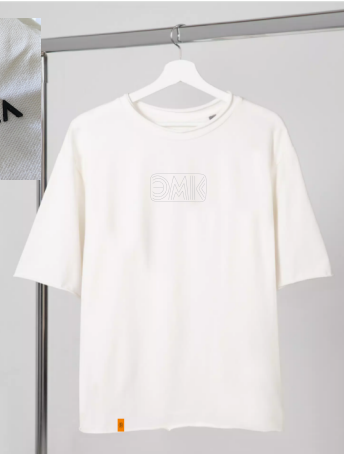
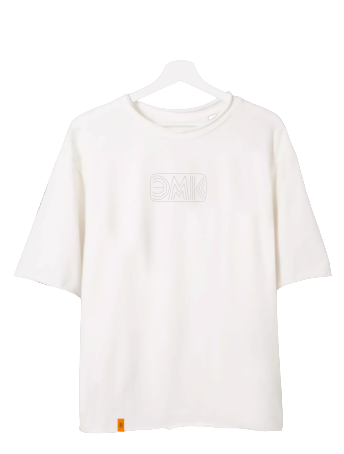
testCommit

diff --git a/front/src/views/admin/AdminElementInner.vue b/front/src/views/admin/AdminElementInner.vue
@@ -1,69 +1,67 @@
 <template>
-  <div class="admin-element-inner">
-    <div class="admin-element-inner__wrapper mt20"
-         :class="{ 'admin-element-inner__wrapper--preview-full-width': previewFullWidth || isMobileScreen }">
-      <div v-if="newElementSkeleton.length"
-           class="admin-element-inner__editor"
-           :class="[
-            { 'admin-element-inner__editor--preview-full-width': previewFullWidth || isMobileScreen },
-            { 'admin-element-inner__editor--no-preview': activeType == 'noPreview' }
-          ]">
-        <div v-for="(item, index) in newElementSkeleton"
-             class="admin-element-inner__field"
-             :key="index">
+<div class="admin-element-inner">
+  <div class="admin-element-inner__wrapper mt20"
+       :class="{ 'admin-element-inner__wrapper--preview-full-width': previewFullWidth || isMobileScreen }">
+    <div v-if="newElementSkeleton.length"
+         :class="['admin-element-inner__editor',
+          { 'admin-element-inner__editor--preview-full-width': previewFullWidth || isMobileScreen },
+          { 'admin-element-inner__editor--no-preview': activeType == 'noPreview' }
+        ]">
+      <div v-for="(item, index) in newElementSkeleton"
+           class="admin-element-inner__field"
+           :key="index">
 
-          <Component :is="inputComponentChecker(item)"
-                     :item="item"
-                     @pick="(value: string) => handleEmitValueChange(item, value)" />
+        <Component :is="inputComponentChecker(item)"
+                   :item="item"
+                   @pick="(value: string) => handleEmitValueChange(item, value)" />
 
-          <AdminEditReportage v-if="item.field == 'reports'"
-                              :item="(item.value as IReportage[])"
-                              @pick="handleReportChange" />
-
-        </div>
-
-        <div class="admin-element-inner__field mt10">
-          <AdminEditInput v-if="newFileData.videos_embed"
-                          :item="{ name: 'Видео с источников', field: 'videos_embed', value: newFileData?.videos_embed[0]?.original_name ?? undefined }"
-                          @pick="(value: string) => handleEmitValueChange({ name: 'Видео с источников', field: 'videos_embed' }, value)" />
-        </div>
-        <AdminUploadingSection class="mt10"
-                               :newFileData="newFileData"
-                               :newData="newData"
-                               @reloadData="reloadElementData(true)"
-                               @handleUpload="handleUpload" />
+        <AdminEditReportage v-if="item.field == 'reports'"
+                            :item="(item.value as IReportage[])"
+                            @pick="handleReportChange" />
       </div>
 
-      <div v-else
-           class="admin-element-inner__editor">
-        <Loader class="admin-element-inner__editor__loader loader" />
+      <div class="admin-element-inner__field mt10">
+        <AdminEditInput v-if="newFileData.videos_embed"
+                        :item="{ name: 'Видео с источников', field: 'videos_embed', value: newFileData?.videos_embed[0]?.original_name ?? undefined }"
+                        @pick="(value: string) => handleEmitValueChange({ name: 'Видео с источников', field: 'videos_embed' }, value)" />
       </div>
-
-      <AdminPostPreview :previewFullWidth="previewFullWidth"
-                        :isMobileScreen="isMobileScreen"
-                        :newFileData="newFileData"
-                        :newData="newData"
-                        :activeType="activeType"
-                        :sectionId="id"
-                        :newId="String(newId)"
-                        :currentItem="currentItem"
-                        @noPreview="previewFullWidth = true"
-                        @changePreviewWidth="previewFullWidth = !previewFullWidth" />
-
+      <AdminUploadingSection class="mt10"
+                             :newFileData="newFileData"
+                             :newData="newData"
+                             @reloadData="reloadElementData(true)"
+                             @handleUpload="handleUpload" />
     </div>
 
-    <div class="admin-element-inner__actions">
-      <button @click="applyNewData"
-              :disabled="buttonIsDisabled"
-              class="admin-element-inner__action-button admin-element-inner__action-button--save">
-        <span class="admin-element-inner__action-text">Сохранить</span>
-      </button>
-      <RouterLink :to="{ name: 'adminBlockInner', params: { id: id } }"
-                  class="admin-element-inner__action-button admin-element-inner__action-button--cancel">
-        <span class="admin-element-inner__action-text">Назад</span>
-      </RouterLink>
+    <div v-else
+         class="admin-element-inner__editor">
+      <Loader class="admin-element-inner__editor__loader loader" />
     </div>
+
+    <AdminPostPreview :previewFullWidth="previewFullWidth"
+                      :isMobileScreen="isMobileScreen"
+                      :newFileData="newFileData"
+                      :newData="newData"
+                      :activeType="activeType"
+                      :sectionId="id"
+                      :newId="String(newId)"
+                      :currentItem="currentItem"
+                      @noPreview="previewFullWidth = true"
+                      @changePreviewWidth="previewFullWidth = !previewFullWidth" />
+
   </div>
+
+  <div class="admin-element-inner__actions">
+    <button @click="applyNewData"
+            :disabled="buttonIsDisabled"
+            class="admin-element-inner__action-button admin-element-inner__action-button--save">
+      <span class="admin-element-inner__action-text">Сохранить</span>
+    </button>
+    <RouterLink :to="{ name: 'adminBlockInner', params: { id: id } }"
+                class="admin-element-inner__action-button admin-element-inner__action-button--cancel">
+      <span class="admin-element-inner__action-text">Назад</span>
+    </RouterLink>
+  </div>
+</div>
 </template>
 
 <script lang="ts">

diff --git a/front/src/views/admin/visibilityAreaEditor/VisibilityAreaEditor.vue b/front/src/views/admin/visibilityAreaEditor/VisibilityAreaEditor.vue
@@ -1,58 +1,58 @@
 <template>
-    <div class="visibility-editor__title page__title mt20">Редактор областей видимости</div>
-    <div class="visibility-editor__wrapper">
-        <AdminSidebar :needDefaultNav="false">
-            <VisibilityAreaSlotLeftSidebar :visibilityAreas="allAreas"
-                                           :activeId="activeArea"
-                                           @addNewArea="modalIsOpen = true"
-                                           @deleteArea="deleteArea"
-                                           @areaClicked="(i: number) => changeActiveArea(i)" />
-        </AdminSidebar>
+<div class="visibility-editor__title page__title mt20">Редактор областей видимости</div>
+<div class="visibility-editor__wrapper">
+    <AdminSidebar :needDefaultNav="false">
+        <VisibilityAreaSlotLeftSidebar :visibilityAreas="allAreas"
+                                       :activeId="activeArea"
+                                       @addNewArea="modalIsOpen = true"
+                                       @deleteArea="deleteArea"
+                                       @areaClicked="(i: number) => changeActiveArea(i)" />
+    </AdminSidebar>
 
-        <SlotModal v-if="modalIsOpen"
-                   @close="modalIsOpen = false">
-            <VisibilityAreaSlotModal @cancelArea="modalIsOpen = false"
-                                     @acceptArea="createNewArea" />
-        </SlotModal>
+    <SlotModal v-if="modalIsOpen"
+               @close="modalIsOpen = false">
+        <VisibilityAreaSlotModal @cancelArea="modalIsOpen = false"
+                                 @acceptArea="createNewArea" />
+    </SlotModal>
 
-        <div class="visibility-editor__area-users__wrapper">
-            <VisibilityAreaControls v-if="activeArea"
-                                    :editGroupMode="editGroupMode"
-                                    class="visibility-editor__area-users__edit-methods"
-                                    @changeEditMode="(value) => changeEditMode(value)"
-                                    @depFilterChanged="(depValue) => handleFilterChanged(depValue, 'dep')"
-                                    @fioFilterChanged="(fioValue) => handleFilterChanged(fioValue, 'fio')" />
+    <div class="visibility-editor__area-users__wrapper">
+        <VisibilityAreaControls v-if="activeArea"
+                                :editGroupMode="editGroupMode"
+                                class="visibility-editor__area-users__edit-methods"
+                                @changeEditMode="(value) => changeEditMode(value)"
+                                @depFilterChanged="(depValue) => handleFilterChanged(depValue, 'dep')"
+                                @fioFilterChanged="(fioValue) => handleFilterChanged(fioValue, 'fio')" />
 
-            <VisibilityAreaUsersList v-if="!editGroupMode && !isLoading"
-                                     :editGroupMode="editGroupMode"
-                                     :userChoices="choices"
-                                     :formattedUsers="formattedUsers"
-                                     :filteredUsers="filteredUsers"
-                                     :fioFilter="fioFilterValue"
-                                     :depFilter="depFilterValue"
-                                     :activeArea="activeArea"
-                                     @deleteDep="deleteDepFromVision"
-                                     @pickUser="fixUserChoice" />
+        <VisibilityAreaUsersList v-if="!editGroupMode && !isLoading"
+                                 :editGroupMode="editGroupMode"
+                                 :userChoices="choices"
+                                 :formattedUsers="formattedUsers"
+                                 :filteredUsers="filteredUsers"
+                                 :fioFilter="fioFilterValue"
+                                 :depFilter="depFilterValue"
+                                 :activeArea="activeArea"
+                                 @deleteDep="deleteDepFromVision"
+                                 @pickUser="fixUserChoice" />
 
-            <VisibilityAreaEditorTree v-else-if="editGroupMode && !isLoading"
-                                      @fixUserChoice="fixUserChoiceFromDepTree"
-                                      :filteredDepartments="filteredDepartments"
-                                      :filteredUsers="filteredUsers"
-                                      :choices="choices"
-                                      :departments="allDepStructure" />
-            <div v-else
-                 class="visibility-editor__area__loader__wrapper">
-                <Loader />
-            </div>
+        <VisibilityAreaEditorTree v-else-if="editGroupMode && !isLoading"
+                                  @fixUserChoice="fixUserChoiceFromDepTree"
+                                  :filteredDepartments="filteredDepartments"
+                                  :filteredUsers="filteredUsers"
+                                  :choices="choices"
+                                  :departments="allDepStructure" />
+        <div v-else
+             class="visibility-editor__area__loader__wrapper">
+            <Loader />
         </div>
-
-        <VisibilityRightSidebar :choices="choices"
-                                :editMode="editGroupMode"
-                                @deleteMultipleUsers="deleteMultipleUsers"
-                                @saveChoices="saveChoices"
-                                @clearChoices="clearChoices"
-                                @deleteFromChoice="deleteFromChoice" />
     </div>
+
+    <VisibilityRightSidebar :choices="choices"
+                            :editMode="editGroupMode"
+                            @deleteMultipleUsers="deleteMultipleUsers"
+                            @saveChoices="saveChoices"
+                            @clearChoices="clearChoices"
+                            @deleteFromChoice="deleteFromChoice" />
+</div>
 </template>
 
 <script lang="ts">

diff --git a/front/src/views/about/merchStore/MerchStore.vue b/front/src/views/about/merchStore/MerchStore.vue
@@ -44,7 +44,7 @@ export default defineComponent({
             {
                 id: 9,
                 title: 'Подушка для самолета',
-                images: ['/imgs/merchStore/9pod.png', '/imgs/merchStore/10futb.png'],
+                images: ['/imgs/merchStore/9pod.png', '/imgs/merchStore/10pod.png'],
                 price: '1000',
                 count: '1'
             },
@@ -70,6 +70,34 @@ export default defineComponent({
                 count: '1'
             },
             {
+                id: 6,
+                title: 'Бутылка для воды (пластик)',
+                images: ['/imgs/merchStore/6voda.png'],
+                price: '1000',
+                count: '1'
+            },
+            {
+                id: 4,
+                title: 'Панама',
+                images: ['/imgs/merchStore/4panama.png', '/imgs/merchStore/5panama.png'],
+                price: '1000',
+                count: '1'
+            },
+            {
+                id: 7,
+                title: 'Вечный карандаш',
+                images: ['/imgs/merchStore/7karandash.png'],
+                price: '1000',
+                count: '1'
+            },
+            {
+                id: 8,
+                title: 'Сумка',
+                images: ['/imgs/merchStore/8sumka.png'],
+                price: '1000',
+                count: '1'
+            },
+            {
                 id: 1,
                 title: 'Зонт складной (черный)',
                 images: ['/imgs/merchStore/1zont.png'],
@@ -90,38 +118,11 @@ export default defineComponent({
                 price: '1000',
                 count: '1'
             },
-            {
-                id: 4,
-                title: 'Панама',
-                images: ['/imgs/merchStore/4panama.png'],
-                price: '1000',
-                count: '1'
-            },
+
             {
                 id: 5,
                 title: 'Бутылка для воды (стекло)',
                 images: ['/imgs/merchStore/5voda.png'],
-                price: '1000',
-                count: '1'
-            },
-            {
-                id: 6,
-                title: 'Бутылка для воды (пластик)',
-                images: ['/imgs/merchStore/6voda.png'],
-                price: '1000',
-                count: '1'
-            },
-            {
-                id: 7,
-                title: 'Вечный карандаш',
-                images: ['/imgs/merchStore/7karandash.png'],
-                price: '1000',
-                count: '1'
-            },
-            {
-                id: 8,
-                title: 'Сумка',
-                images: ['/imgs/merchStore/8sumka.png'],
                 price: '1000',
                 count: '1'
             },
@@ -154,5 +155,7 @@ export default defineComponent({
 .hover-gallery__image {
     max-width: 100%;
     object-fit: contain;
+    background: whitesmoke;
+    border-radius: 20px;
 }
 </style>

diff --git a/front/src/views/admin/components/elementInnerLayout/AdminUploadingSection.vue b/front/src/views/admin/components/elementInnerLayout/AdminUploadingSection.vue
@@ -4,9 +4,17 @@
     <div class="admin-element-inner__fields"
          v-for="itemKey in Object.keys(newFileData)"
          :key="'key' + itemKey">
-        <div v-if="newFileData && itemKey !== 'videos_embed'"
-             class="">
-            <p class="admin-element-inner__field-title fs-l">{{ blockTitle(itemKey) }} </p>
+        <div v-if="newFileData && itemKey !== 'videos_embed'">
+            <p class="admin-element-inner__field-title fs-l">
+                {{ blockTitle(itemKey) }}
+            </p>
+            <div v-if="itemKey == 'images' && newFileData['images']?.length">
+                превью
+                <FileUploader @upload="(e) => $emit('handleUpload', e)"
+                              @reloadData="$emit('reloadData')"
+                              :uploadType="(itemKey as keyof IKeyToWord)"
+                              :existFiles="[(newFileData[itemKey as keyof IKeyToWord])![0]]" />
+            </div>
             <FileUploader @upload="(e) => $emit('handleUpload', e)"
                           @reloadData="$emit('reloadData')"
                           :uploadType="(itemKey as keyof IKeyToWord)"

diff --git a/front/src/views/services/PostCard.vue b/front/src/views/services/PostCard.vue
@@ -149,7 +149,7 @@ export default defineComponent({
             }
             Api.post('/users/test_send_mail', body)
         }
-        const validateEmail = (inputValue: unknown) => {
+        const validateEmail = (inputValue: string) => {
             if (!inputValue) {
                 return 'Email обязателен для заполнения';
             }

diff --git a/front/src/assets/styles/common/galleries/_hoverGallery.scss b/front/src/assets/styles/common/galleries/_hoverGallery.scss
@@ -1,7 +1,7 @@
 .hover-gallery {
     position: relative;
     width: 100%;
-    max-width: 300px;
+    // max-width: 300px;
     overflow: hidden;
     text-align: center;
     cursor: pointer;

diff --git a/front/src/assets/styles/about/merchStore/_merchStore.scss b/front/src/assets/styles/about/merchStore/_merchStore.scss
@@ -269,6 +269,7 @@
 
         &__item {
             width: fit-content;
+            min-width: 100%;
 
             &:hover {
                 .merchStore__grid__item__price span::after {
